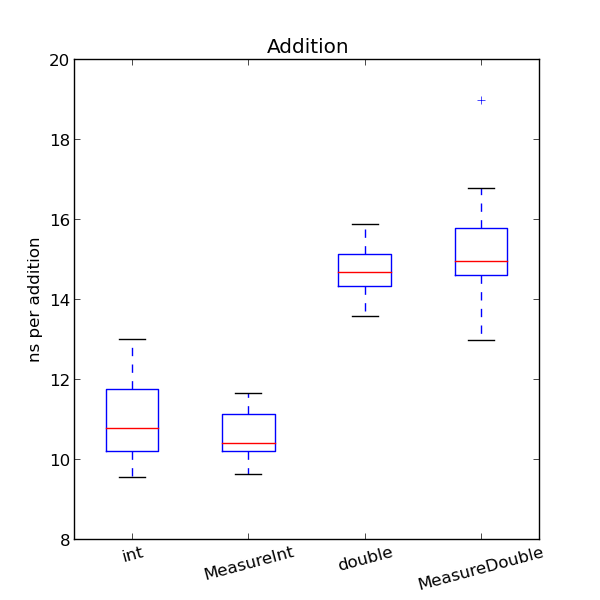
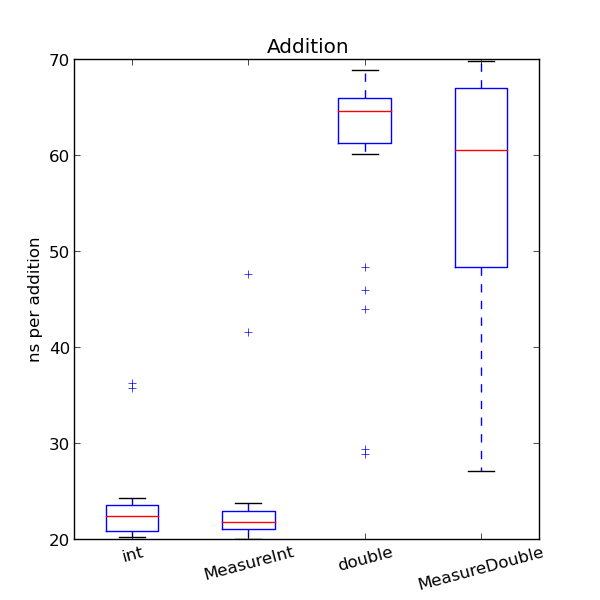
write about benchmarks

diff --git a/thesis/thesis.tex b/thesis/thesis.tex
@@ -364,6 +364,7 @@ As we have seen, there are a few common features that almost all systems support
 \end{description}
 
 \section{Limitations}
+\label{sec:limitiations}
 
 Before I describe my implementation in detail, I provide a short list of its limitations. Those are mostly based on limitations of the JVM itself, or on more fundamental issues.
 
@@ -506,33 +507,52 @@ lazy val shortFactor: PackratParser[List[GeneralUnit]] = (
 
 \section{Defining Units}
 \section{Arithmetic with Measures}
+\section{Conversions}
+\section{Using optimized Measures}
 
 \chapter{Benchmarks}
 \label{cha:bench}
 
-To make sure my implementation actually achieves the raw performance I am aiming for, I wrote a simple benchmark suite to compare primitive data types against my own Measures. The benchmark tests two simple operations, vector addition and dot product. To lessen the impact of overhead costs and concentrate on the performance of the arithmetic operations, all benchmarks are run on an array of 2 million vectors. A single run of a benchmark consists of 20 runs through such an array. To calculate the median runtime for each operation as well as a confidence interval ($\alpha = 0.05$), 30 runs are performed for each implementation.
-
-As can be seen in table \ref{bench:scala_measures}, for addition there is no significant difference between the performance of primitive data types and Measures annotated with unit information. There is a slowdown for multiplication (about 40 \%), but it is small compared to performance of boxed types.
-
-
+\begin{figure}
+\begin{tabular}{lrrrrrr}
+Type          & int      & MeasureInt  &    Integer  & double   & MeasureDouble  & Double \\
+\midrule
+addition      & 22.56 ns &  21.73 ns   &  505.05 ns  & 64.63 ns &  61.68 ns      & 665.10 ns \\
+dot product   & 12.65 ns &  12.85 ns   &   37.42 ns  & 15.30 ns &  15.45 ns      &  47.74 ns
+\end{tabular}
+\caption{Median runtime of arithmetic operations for different data types, per operation.}
+\label{bench:scala_measures_median}
+\end{figure}
 
 \begin{figure}
 \begin{tabular}{lrrrr}
-Type            & int      & MeasureInt  & double    & MeasureDouble \\
+Type          & int             & MeasureInt      &     double      & MeasureDouble  \\
 \midrule
-addition        & 11.08 ns &  10.59 ns   &  15.21 ns &  15.34 ns             \\
-dot product     &  6.98 ns &   9.89 ns   &   8.63 ns &  12.58 ns
+addition      & [17.80, 28.25]  & [10.35, 36.43]  & [18.69, 102.87] & [-10.22, 122.48] \\
+dot product   & [12.41, 13.04]  & [12.73, 13.20]  &  [15.14, 15.40] &  [15.19, 15.48]
 \end{tabular}
-\caption{Median runtime of arithmetic operations for different data types, per operation.}
-\label{bench:scala_measures}
+\caption{Confidence intervals for the average runtime ($\alpha = 0.05$) of arithmetic operations for different data types.}
+\label{bench:scala_measures_interval}
 \end{figure}
+
+
+To make sure my implementation actually achieves the raw performance I am aiming for, I wrote a simple benchmark suite to compare primitive data types against my own Measures. The benchmark tests two simple operations, vector addition and dot product. Vectors were not array backed, but rather had four hardcoded elements. To ensure optimal performance, I created separate implementations for each data type that was tested - unrestricted generics lead to boxing, which would hide any performance impact of the Measures. Still, in Scala generics are translated without boxing if a restrictive type bound permits it. I utilize this to create Vectors that can take a Measure of any unit (read: with any type parameter), as long as it is based on a certain type (this works since Measures are reduced to primitive types by the compiler).
+
+These generic Vectors of Measures actually necessitated a trick mentioned in chapter \ref{cha:future}. Since the Measure macros for arithmetic can by default only see the name of the type parameter when they are used in a generic method, it is necessary to implement the methods of the Vector as macros themselves. For details please refer to chapter \ref{cha:future}, you can see the implementation in Figure \ref{code:scala_generic}.
+
+To lessen the impact of overhead costs and concentrate on the performance of the arithmetic operations, all benchmarks are run on an array of 2 million vectors. A single run of a benchmark consists of 20 runs through such an array, with 5 untimed runs to warm-up the JIT. Finally, to calculate the median runtime for each operation as well as a confidence interval ($\alpha = 0.05$) for the expected runtime, 30 runs are performed for each implementation. The results are tallied up in Scala, and boxplots are created with matplotlib in Python.
+
+As can be seen in tables \ref{bench:scala_measures_median} and \ref{bench:scala_measures_interval}, there is no significant difference between primitive types and Measures. However, there is quite some variability in expected runtime, which is mostly due to garbage collection overhead.
+
+
+
 
 
 \begin{figure*}[htb]
 \centering
 \includegraphics[width=0.49\textwidth]{boxplot_add.png}
 \includegraphics[width=0.49\textwidth]{boxplot_mul.png}
-\caption{Runtime for addition and dot product, measured with the methodology described in Chapter \ref{cha:bench}. For addition, there is no significant difference between primitives and Measures, whereas for multiplication, there is a 40\% slowdown.}
+\caption{Runtime for addition and dot product, measured with the methodology described in Chapter \ref{cha:bench}. There is no significant difference between primitives and Measures, although there is of course some variability due to garbage collection.}
 \label{fig:rome}
 \end{figure*}
 
@@ -540,10 +560,47 @@ dot product     &  6.98 ns &   9.89 ns   &   8.63 ns &  12.58 ns
 
 
 \chapter{Future Work}
+\label{cha:future}
 
-better generics
+Two problems remain to be solved. First, currently it is awkward to combine generics with Measures, as the underlying macros rely on knowing the actual type parameter to perform the correct transformations. A solution to this problem is not easy - either C++ style templates have to be emulated to generate different code for different type parameters, or the unit calculation has to be moved into a compiler plugin.
 
-improvements to value classes
+As a workaround, generic functions can be implemented as macros themselves. Thanks to quasiquoting, this is not too difficult, but care needs to be taken to properly precompute any arguments. Otherwise, performance could drop or a user could run into unexpected side effects (multiple evaluation!). For an example of such an implementation, see Figure \ref{code:scala_generic}.
+
+To further streamline this process, a helper macro could be created. This macro would parse a expression passed in by the user, properly precompute all all values that are used and then emit the correct generic code.
+
+\begin{figure}
+\begin{minted}{scala}
+/* normal (non-generic) Vector */
+case class Vector2(val x: Int, val y: Int) {
+  def +(that: Vector2) = Vector2(this.x + that.x, this.y + that.y)
+}
+
+/* generic Vector, optimized for Measures based on int */
+
+/* the type bound here is very important, otherwise the value class  *
+ * will be boxed (ie T is assumed to be an object), and performance  *
+ * is abysmal. check it with 'javap Vector4G' to see the byte code   */
+case class Vector2G[T <: MeasureInt[_]](val x: T, val y: T) {
+  def +(that: Vector2G[T]) = macro VectorImpl.plus_impl[T]
+}
+
+object VectorImpl {
+  def plus_impl[T <: MeasureInt[_]](c: Context)
+      (that: c.Expr[Vector2G[T]]): c.Expr[Any] = {
+    import c.universe._
+    val comp = new Precomputer[c.type](c)
+    val (aID, bID) = (comp.compute(c.prefix.tree), comp.compute(that.tree))
+    val stats = q"Vector2G($aID.x + $bID.x, $aID.y + $bID.y)"
+    c.Expr(Block(comp.evals.toList, stats))
+  }
+}
+\end{minted}
+\caption{Two different implementations for a 2D Vector. The first is specialized for int, the second uses Generics to accept all Measures that are based on int.}
+\label{code:scala_generic}
+\end{figure}
+
+
+Second, as mentioned in Section \ref{sec:limitiations}, Value classes currently experience degraded performance if used in arrays. This might be fixed in the next version of Scala, offering increased performance with a simple recompilation. Otherwise, a custom array wrapper that stores value classes as raw primitives by manually unwrapping them could solve this problem too. Even without a workaround, this problem is not too serious: performance only drops by about 40\% compared to raw primitives.
 
 
 \chapter{Acknowledgements}

diff --git a/thesis/plot.py b/thesis/plot.py
@@ -1,17 +1,17 @@
 from pylab import *
 
 runtimes_add = [
-  [9.54054054054054, 9.81081081081081, 9.864864864864865, 9.945945945945946, 10.027027027027026, 10.027027027027026, 10.108108108108109, 10.135135135135135, 10.405405405405405, 10.513513513513514, 10.54054054054054, 10.567567567567568, 10.621621621621621, 10.72972972972973, 10.783783783783784, 10.783783783783784, 10.864864864864865, 11.054054054054054, 11.135135135135135, 11.378378378378379, 11.45945945945946, 11.594594594594595, 11.81081081081081, 12.08108108108108, 12.108108108108109, 12.162162162162161, 12.18918918918919, 12.594594594594595, 12.945945945945946, 13.0],
-  [9.621621621621621, 9.783783783783784, 9.81081081081081, 9.891891891891891, 9.91891891891892, 9.972972972972974, 10.027027027027026, 10.18918918918919, 10.216216216216216, 10.27027027027027, 10.27027027027027, 10.289473684210526, 10.297297297297296, 10.297297297297296, 10.324324324324325, 10.45945945945946, 10.567567567567568, 10.621621621621621, 10.702702702702704, 10.72972972972973, 10.91891891891892, 11.052631578947368, 11.135135135135135, 11.18918918918919, 11.18918918918919, 11.243243243243244, 11.27027027027027, 11.342105263157896, 11.45945945945946, 11.64864864864865],
-  [13.571428571428571, 13.714285714285714, 13.82857142857143, 13.971428571428572, 14.028571428571428, 14.028571428571428, 14.085714285714285, 14.314285714285715, 14.342857142857143, 14.428571428571429, 14.571428571428571, 14.628571428571428, 14.657142857142857, 14.657142857142857, 14.685714285714285, 14.685714285714285, 14.8, 14.885714285714286, 14.971428571428572, 15.0, 15.057142857142857, 15.057142857142857, 15.142857142857142, 15.485714285714286, 15.514285714285714, 15.514285714285714, 15.694444444444445, 15.722222222222221, 15.8, 15.885714285714286],
-  [12.971428571428572, 14.166666666666666, 14.257142857142858, 14.285714285714286, 14.342857142857143, 14.38888888888889, 14.5, 14.6, 14.61111111111111, 14.61111111111111, 14.694444444444445, 14.771428571428572, 14.82857142857143, 14.833333333333334, 14.914285714285715, 15.0, 15.142857142857142, 15.228571428571428, 15.4, 15.457142857142857, 15.514285714285714, 15.722222222222221, 15.805555555555555, 15.857142857142858, 15.857142857142858, 15.885714285714286, 15.971428571428572, 16.714285714285715, 16.77777777777778, 18.973684210526315]
+  [20.1875, 20.3125, 20.375, 20.5625, 20.6, 20.625, 20.6875, 20.8125, 20.875, 21.25, 21.5625, 21.6875, 22.125, 22.125, 22.25, 22.5625, 22.5625, 22.5625, 22.625, 22.6875, 23.125, 23.3125, 23.5625, 23.6875, 23.6875, 23.875, 24.1875, 24.25, 35.73684210526316, 36.21052631578947],
+  [20.0, 20.066666666666666, 20.333333333333332, 20.5, 20.714285714285715, 20.866666666666667, 20.933333333333334, 21.0, 21.1875, 21.2, 21.266666666666666, 21.3125, 21.533333333333335, 21.714285714285715, 21.733333333333334, 21.733333333333334, 22.466666666666665, 22.714285714285715, 22.733333333333334, 22.8, 22.8, 22.875, 23.0, 23.066666666666666, 23.333333333333332, 23.428571428571427, 23.533333333333335, 23.785714285714285, 41.526315789473685, 47.578947368421055],
+  [28.846153846153847, 29.384615384615383, 43.93333333333333, 45.9375, 48.375, 60.111111111111114, 60.578947368421055, 61.10526315789474, 61.63157894736842, 63.473684210526315, 63.65, 63.95, 64.15, 64.15789473684211, 64.5, 64.63157894736842, 65.45, 65.5, 65.6, 65.7, 65.75, 65.8, 66.05, 66.5, 67.35, 67.35, 67.85, 68.6, 68.7, 68.85],
+  [27.076923076923077, 29.076923076923077, 30.692307692307693, 35.07142857142857, 40.8, 42.266666666666666, 46.5625, 47.375, 51.294117647058826, 52.05882352941177, 52.05882352941177, 53.411764705882355, 56.166666666666664, 57.05555555555556, 59.26315789473684, 61.68421052631579, 63.9, 64.26315789473684, 66.3, 66.35, 66.4, 66.4, 67.2, 67.25, 67.65, 68.7, 69.15, 69.3, 69.35, 69.75]
 ]
 
 runtimes_mul = [
-  [5.8, 5.875, 6.325, 6.375, 6.475, 6.475, 6.5, 6.55, 6.625, 6.8, 6.825, 6.9, 7.0, 7.0, 7.05, 7.05, 7.1, 7.125, 7.15, 7.225, 7.3, 7.3, 7.4, 7.45, 7.55, 7.975, 8.025, 8.2, 9.125, 9.425],
-  [8.538461538461538, 8.743589743589743, 8.846153846153847, 8.868421052631579, 8.871794871794872, 8.947368421052632, 8.948717948717949, 9.052631578947368, 9.153846153846153, 9.179487179487179, 9.18421052631579, 9.282051282051283, 9.435897435897436, 9.461538461538462, 9.461538461538462, 9.564102564102564, 9.564102564102564, 9.58974358974359, 9.58974358974359, 9.666666666666666, 9.948717948717949, 10.076923076923077, 10.18421052631579, 10.205128205128204, 10.333333333333334, 10.552631578947368, 10.58974358974359, 10.692307692307692, 10.871794871794872, 11.58974358974359],
-  [7.85, 7.9, 7.925, 7.925, 7.925, 7.925, 7.975, 8.0, 8.0, 8.1, 8.125, 8.125, 8.2, 8.3, 8.325, 8.375, 8.4, 8.4, 8.425, 8.425, 8.45, 8.475, 8.5, 8.6, 8.7, 8.7, 8.775, 8.8, 8.95, 9.0],
-  [10.394736842105264, 11.736842105263158, 11.763157894736842, 11.842105263157896, 11.894736842105264, 12.026315789473685, 12.026315789473685, 12.18421052631579, 12.18421052631579, 12.210526315789474, 12.31578947368421, 12.421052631578947, 12.526315789473685, 12.578947368421053, 12.64864864864865, 12.657894736842104, 12.68421052631579, 12.736842105263158, 12.947368421052632, 12.947368421052632, 13.0, 13.0, 13.18421052631579, 13.263157894736842, 13.526315789473685, 13.631578947368421, 13.81578947368421, 13.81578947368421, 14.18918918918919, 14.394736842105264]
+  [11.4, 11.45, 11.7, 11.8, 11.85, 11.9, 12.0, 12.0, 12.05, 12.15, 12.15, 12.15, 12.15, 12.4, 12.45, 12.65, 12.75, 12.75, 12.95, 13.2, 13.2, 13.25, 13.3, 13.4, 13.6, 13.8, 13.9, 13.95, 14.35, 15.15],
+  [11.45, 11.65, 11.85, 12.05, 12.25, 12.25, 12.25, 12.4, 12.45, 12.6, 12.65, 12.65, 12.7, 12.75, 12.85, 12.85, 13.0, 13.35, 13.35, 13.45, 13.45, 13.5, 13.6, 13.65, 13.65, 13.65, 13.65, 13.95, 14.25, 14.8],
+  [14.55, 14.55, 14.6, 14.65, 14.65, 14.7, 14.75, 14.75, 14.75, 14.75, 14.75, 14.85, 14.95, 15.1, 15.2, 15.3, 15.35, 15.4, 15.4, 15.55, 15.55, 15.65, 15.65, 15.65, 15.8, 15.95, 16.05, 16.25, 16.45, 16.5],
+  [13.8, 14.3, 14.4, 14.6, 14.65, 14.75, 14.8, 14.85, 15.0, 15.05, 15.25, 15.25, 15.3, 15.3, 15.45, 15.45, 15.5, 15.5, 15.55, 15.6, 15.6, 15.65, 15.7, 15.85, 15.9, 15.95, 15.95, 16.0, 16.45, 16.55]
 ]
 
 # multiple box plots on one figure
@@ -19,10 +19,22 @@ runtimes_mul = [
 figure(1, figsize=(6, 6), dpi=600)
 # NYCdiseases['chickenPox'] is a matrix
 # with 30 rows (1 per year) and 12 columns (1 per month)
-boxplot(runtimes_mul)
-labels = ("int", "MeasureInt", "double", "MeasureDouble")
-xticks(range(1, 5), labels, rotation=15)
-ylabel('ns per dot product')
-title('Dot Product')
+def mul():
+  boxplot(runtimes_mul)
+  labels = ("int", "MeasureInt", "double", "MeasureDouble")
+  xticks(range(1, 5), labels, rotation=15)
+  ylabel('ns per dot product')
+  title('Dot Product')
 
-savefig('boxplot_mul.png')
+  savefig('boxplot_mul.png')
+
+def add():
+  boxplot(runtimes_add)
+  labels = ("int", "MeasureInt", "double", "MeasureDouble")
+  xticks(range(1, 5), labels, rotation=15)
+  ylabel('ns per addition')
+  title('Addition')
+
+  savefig('boxplot_add.png')
+
+add()
